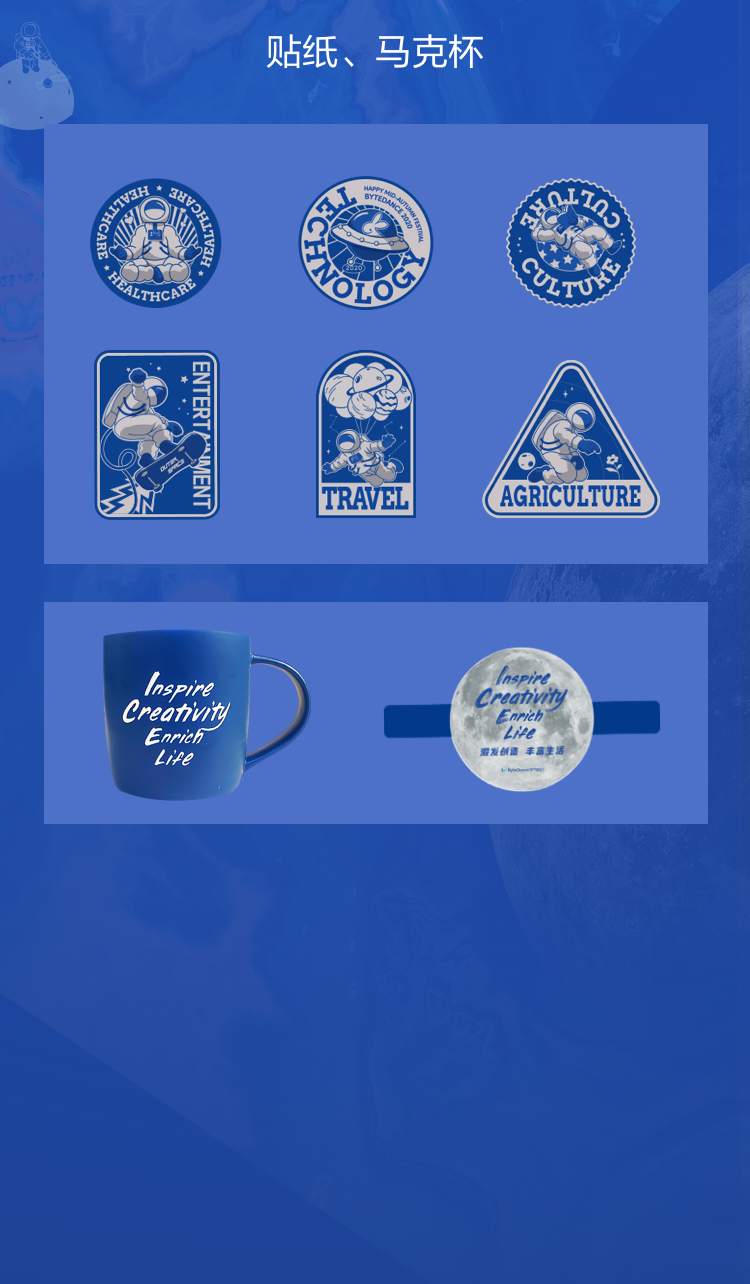
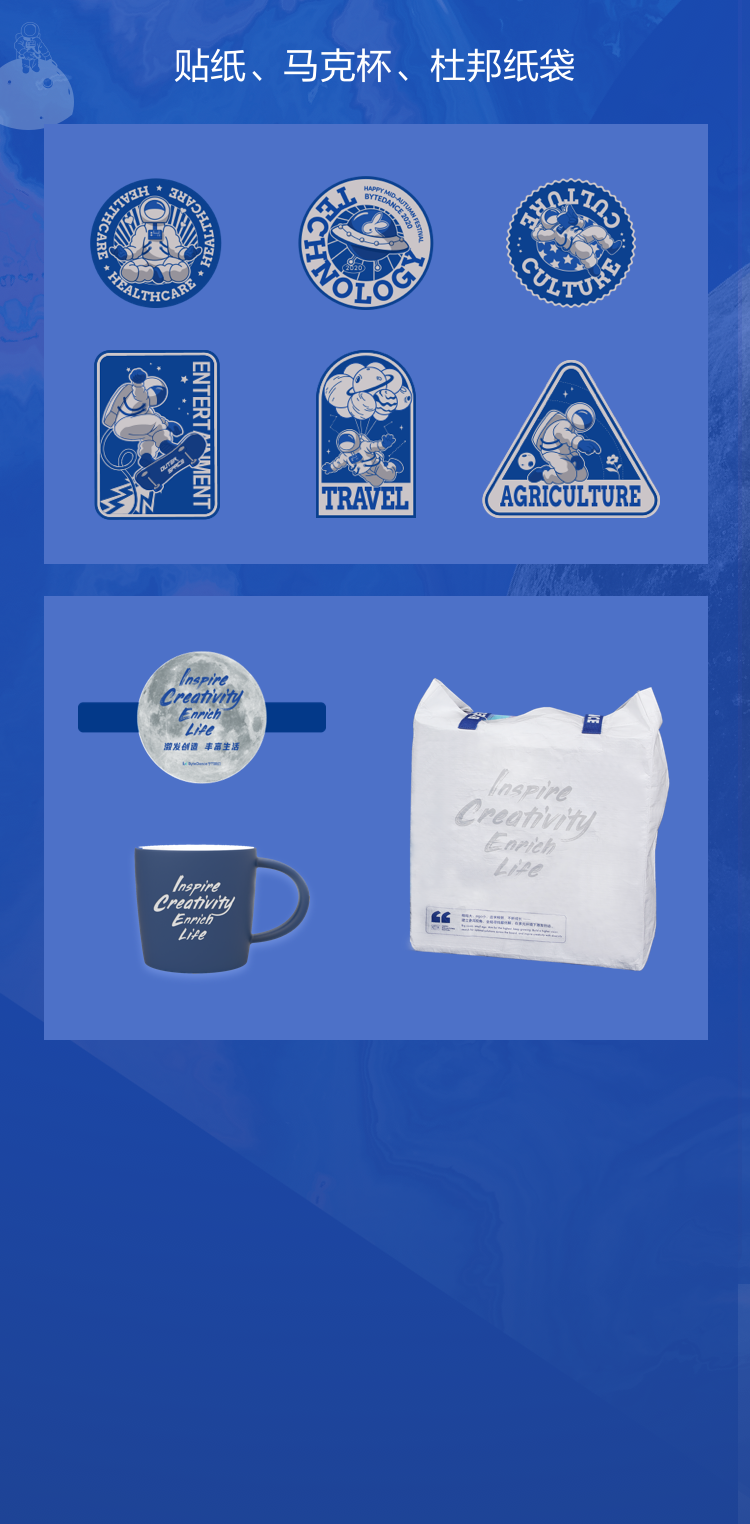
add

Changed region(s): [[0.0, 0.0, 0.9507, 0.6854], [0.92, 0.1558, 1.0, 0.2181], [0.0, 0.2492, 0.0613, 0.3115]]

diff --git a/src/components/product.vue b/src/components/product.vue
@@ -295,7 +295,7 @@ export default {
     left: 0;
     z-index: 0;
     width: 3.75rem;
-    height: 6.42rem;
+    height: 7.62rem;
     background-image: url("../assets/img/productBgbottom.png");
     background-color: #3267c7;
     background-repeat: no-repeat;
@@ -405,7 +405,7 @@ export default {
     width: 1.95rem;
     height: 1.21rem;
     position: absolute;
-    top: 12.31rem;
+    top: 13.51rem;
     left: 0.9rem;
     background-image: url(../assets/img/productBtn.png);
     background-repeat: no-repeat;

diff --git a/src/api/global.js b/src/api/global.js
@@ -1,7 +1,7 @@
 // const API = 'http://dev.api.byte.tsingglobal.cn';
-// const API = '//apitest.tsingglobal.com';
+const API = '//apitest.tsingglobal.com';
 // const API = 'http://tsingtest.test.tsingglobal.cn';
-const API = 'https://tsingapi.tsingglobal.com';
+// const API = 'https://tsingapi.tsingglobal.com';
 
 // 联调环境：dev.api.byte.tsingglobal.cn
 // 测试环境：apitest.tsingglobal.com

diff --git a/config/index.js b/config/index.js
@@ -55,7 +55,7 @@ module.exports = {
     assetsRoot: path.resolve(__dirname, '../dist'),
     assetsSubDirectory: 'static',
     // assetsPublicPath: 'https://test-maf-h5-static.tsingglobal.com/',
-    assetsPublicPath: 'https://maf-h5-static.tsingglobal.com/',
+    assetsPublicPath: 'https://test-maf-h5-static.tsingglobal.com/',
 
     /**
      * Source Maps

diff --git a/src/components/login.vue b/src/components/login.vue
@@ -558,7 +558,7 @@ div.captchaClass {
     background-image: url(../assets/img/loginBg.jpg);
     background-color: #3267c7;
     background-repeat: no-repeat;
-    background-position: -15px 0; 
+    background-position: 0 0; 
     background-size: auto 100%;
 }
 .login-wrap {
